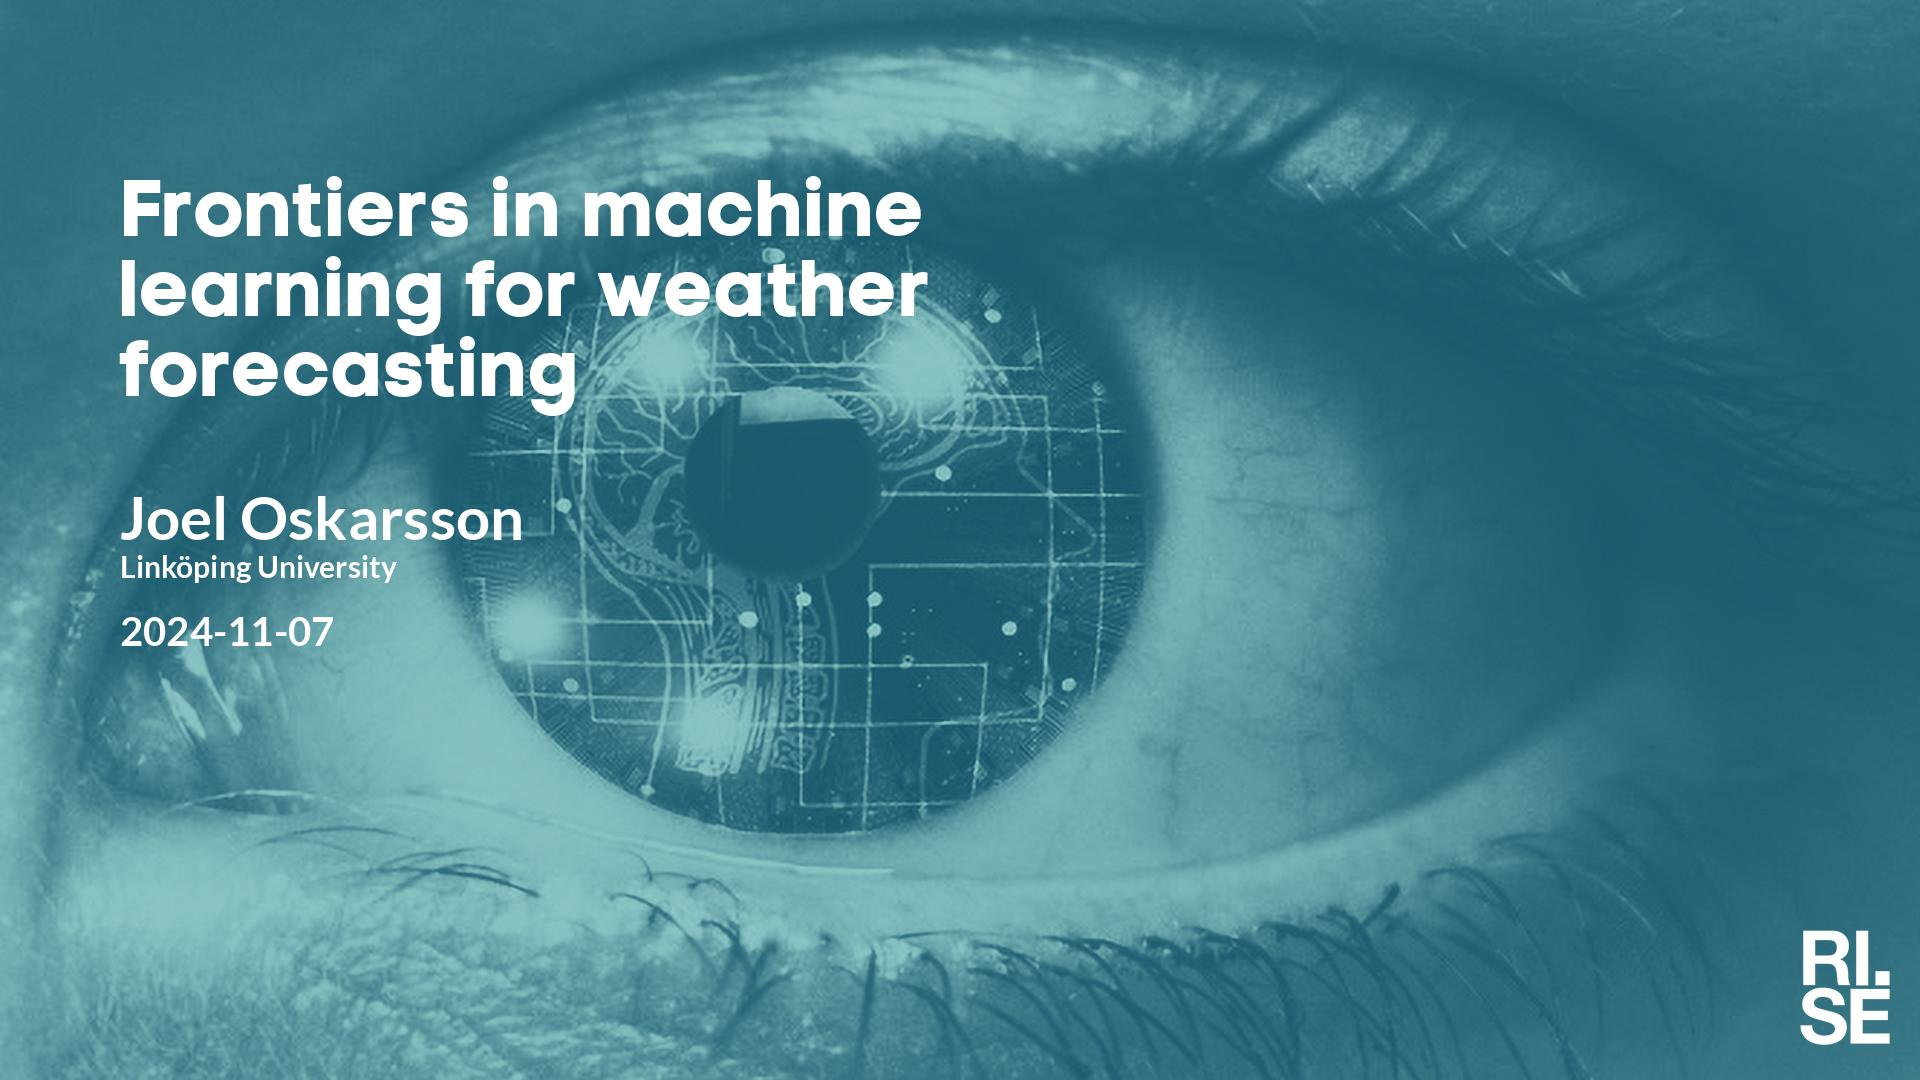
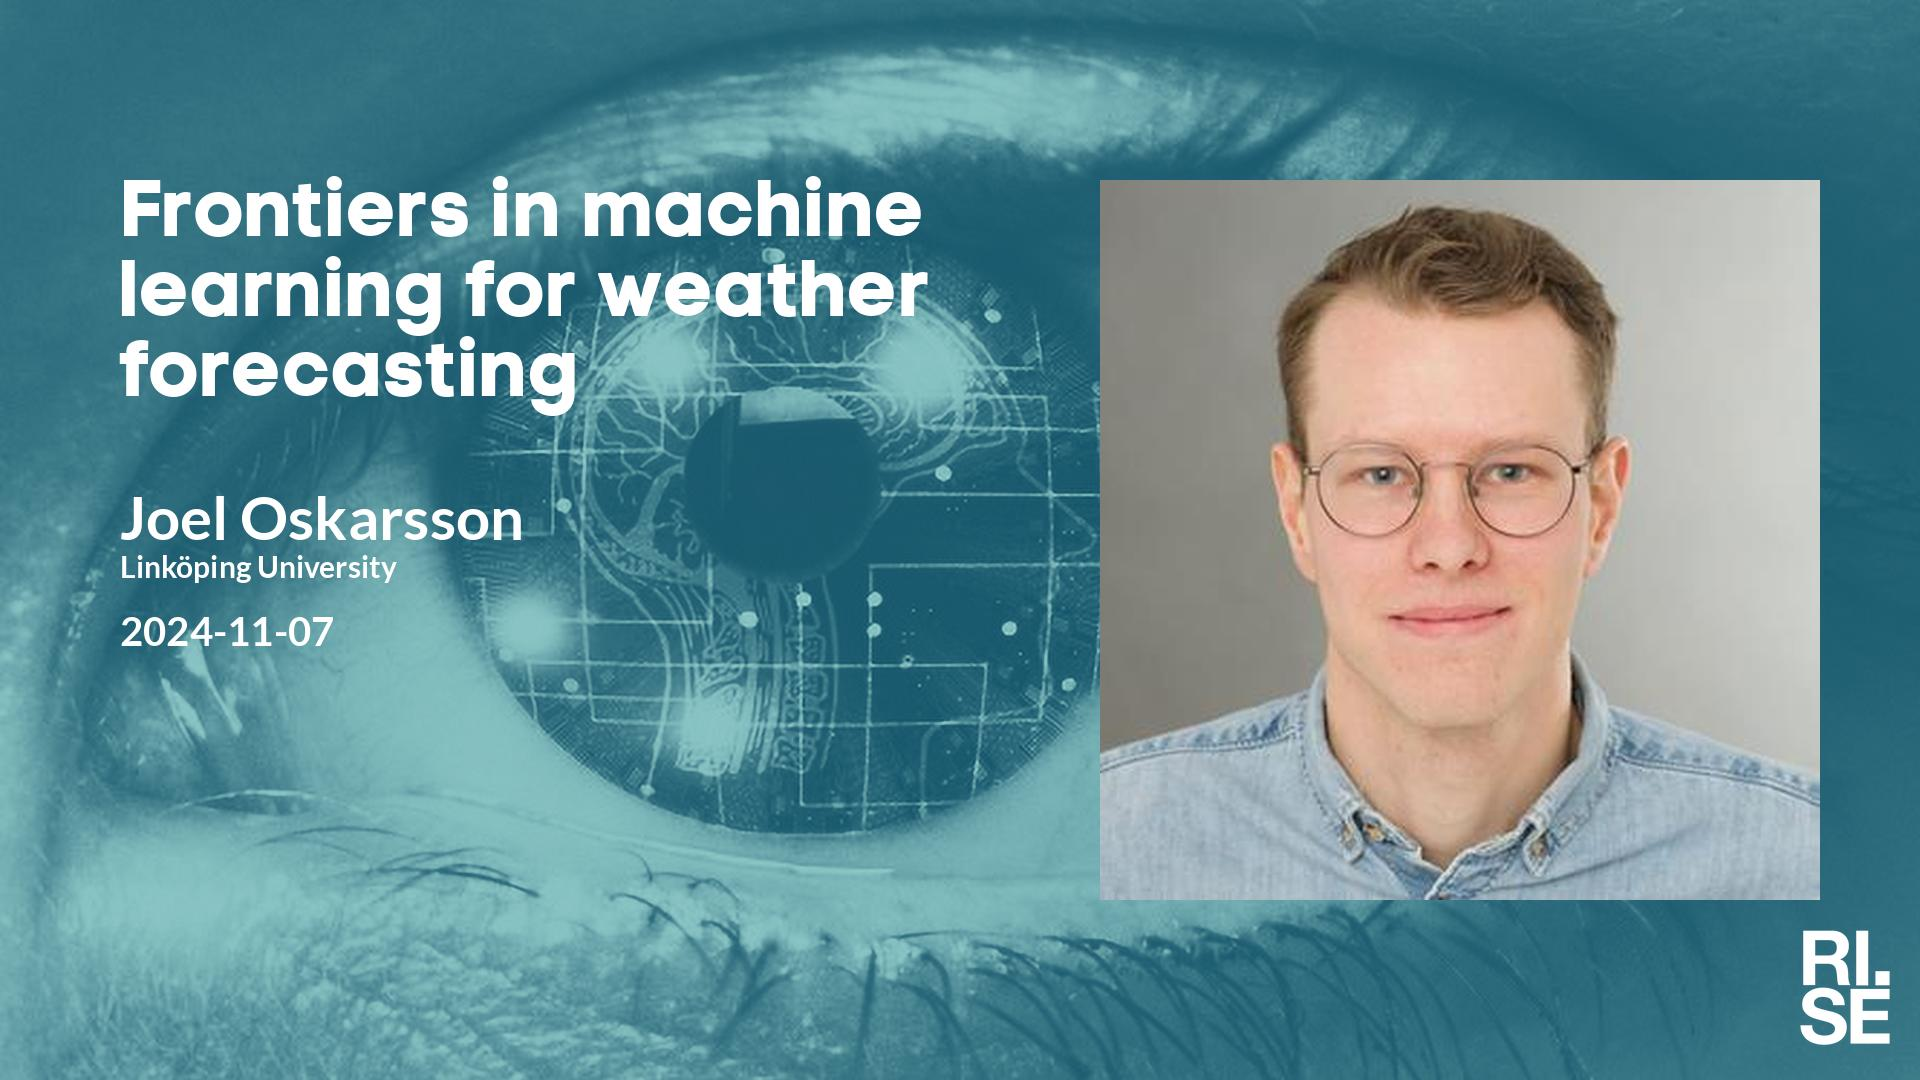
Updated plan on web site.

Changed region(s): [[0.5625, 0.1528, 0.9688, 0.8556]]

diff --git a/lm/index.md b/lm/index.md
@@ -14,7 +14,7 @@ table {border-collapse: collapse;}
 |  2024-10-17  |  [Matthias Obst, University of Gothenburg](2024-10-17.md)  |  [photo](photo-matthias-obst.jpg)  |  [social media ](social-media-matthias-obst.jpg)  |  [meeting backdrop ](meeting-backdrop-matthias-obst.jpg)  |  [youtube thumbnail ](youtube-thumbnail-matthias-obst.jpg)  |  STABP  |
 |  2024-10-24  |  [Ankit Kariryaa, University of Copenhagen](2024-10-24.md)  |    |  [social media ](social-media-ankit-kariryaa.jpg)  |  [meeting backdrop ](meeting-backdrop-ankit-kariryaa.jpg)  |  [youtube thumbnail ](youtube-thumbnail-ankit-kariryaa.jpg)  |  STAB~~P~~  |
 | <span style="color:red"> 2024-10-31 </span> | <span style="color:red"> Höstlov </span> | <span style="color:red">  </span> | <span style="color:red">  </span> | <span style="color:red">  </span> | <span style="color:red">  </span> | <span style="color:red"> CANCELLED </span> |
-|  2024-11-07  |  [Joel Oskarsson, Linköping University](2024-11-07.md)  |    |  [social media ](social-media-joel-oskarsson.jpg)  |  [meeting backdrop ](meeting-backdrop-joel-oskarsson.jpg)  |  [youtube thumbnail ](youtube-thumbnail-joel-oskarsson.jpg)  |  STAB~~P~~  |
+|  2024-11-07  |  [Joel Oskarsson, Linköping University](2024-11-07.md)  |  [photo](photo-joel-oskarsson.jpg)  |  [social media ](social-media-joel-oskarsson.jpg)  |  [meeting backdrop ](meeting-backdrop-joel-oskarsson.jpg)  |  [youtube thumbnail ](youtube-thumbnail-joel-oskarsson.jpg)  |  STABP  |
 |  2024-11-14  |  [Abdulhakim Abdi, Lund University](2024-11-14.md)  |  [photo](photo-abdulhakim-abdi.jpg)  |  [social media ](social-media-abdulhakim-abdi.jpg)  |  [meeting backdrop ](meeting-backdrop-abdulhakim-abdi.jpg)  |  [youtube thumbnail ](youtube-thumbnail-abdulhakim-abdi.jpg)  |  S~~TAB~~P  |
 |  2024-11-21  |  [Alp Kucukelbir, Columbia University](2024-11-21.md)  |    |  [social media ](social-media-alp-kucukelbir.jpg)  |  [meeting backdrop ](meeting-backdrop-alp-kucukelbir.jpg)  |  [youtube thumbnail ](youtube-thumbnail-alp-kucukelbir.jpg)  |  S~~TABP~~  |
 |  2024-11-28  |  [Alireza Taheri Dehkordi, Lund University](2024-11-28.md)  |    |  [social media ](social-media-alireza-taheri-dehkordi.jpg)  |  [meeting backdrop ](meeting-backdrop-alireza-taheri-dehkordi.jpg)  |  [youtube thumbnail ](youtube-thumbnail-alireza-taheri-dehkordi.jpg)  |  S~~TABP~~  |
